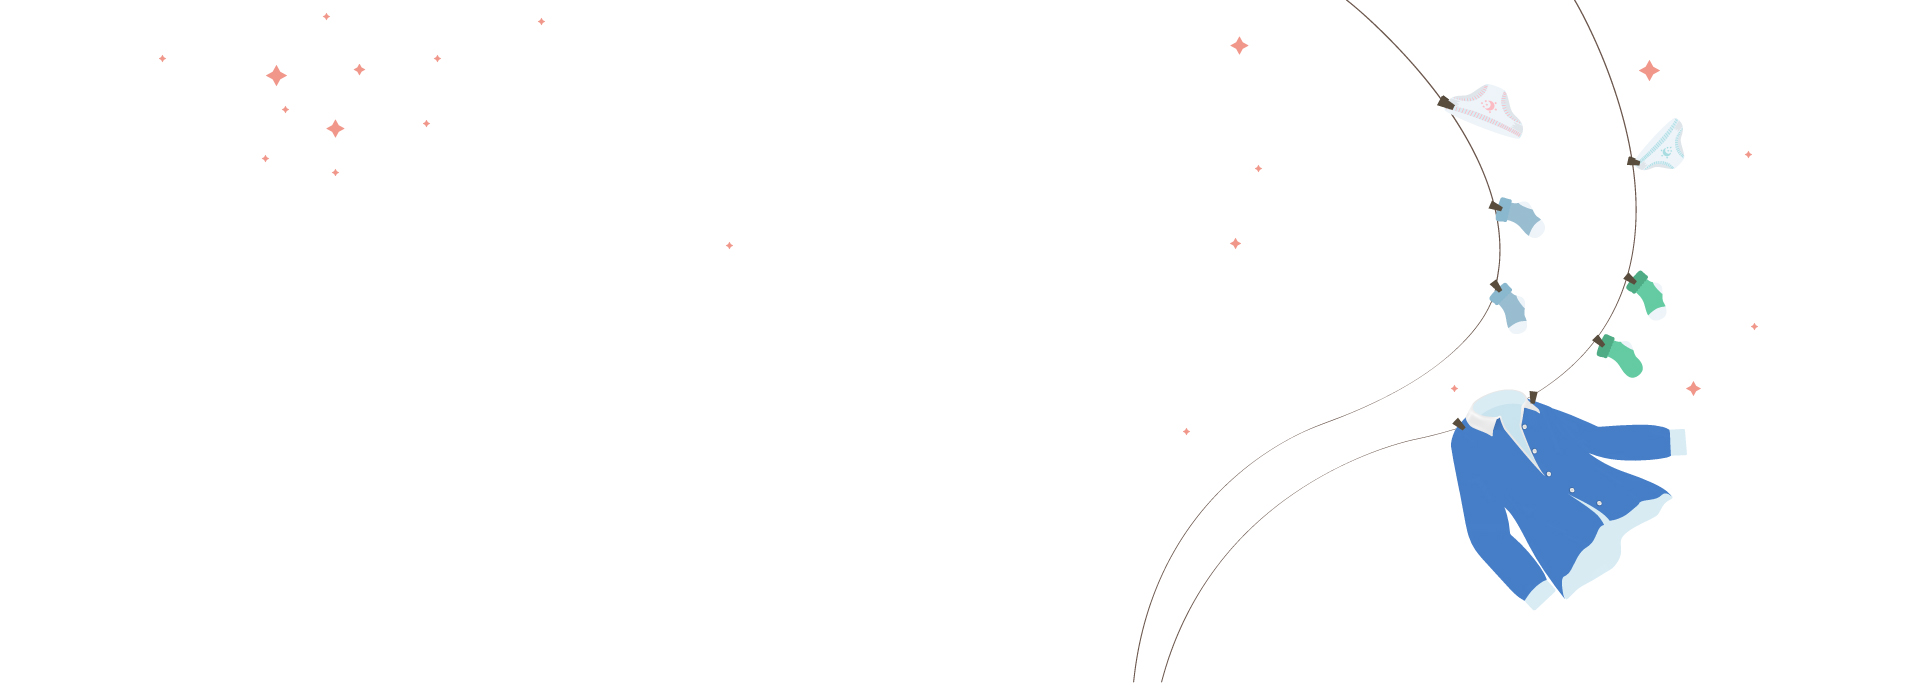
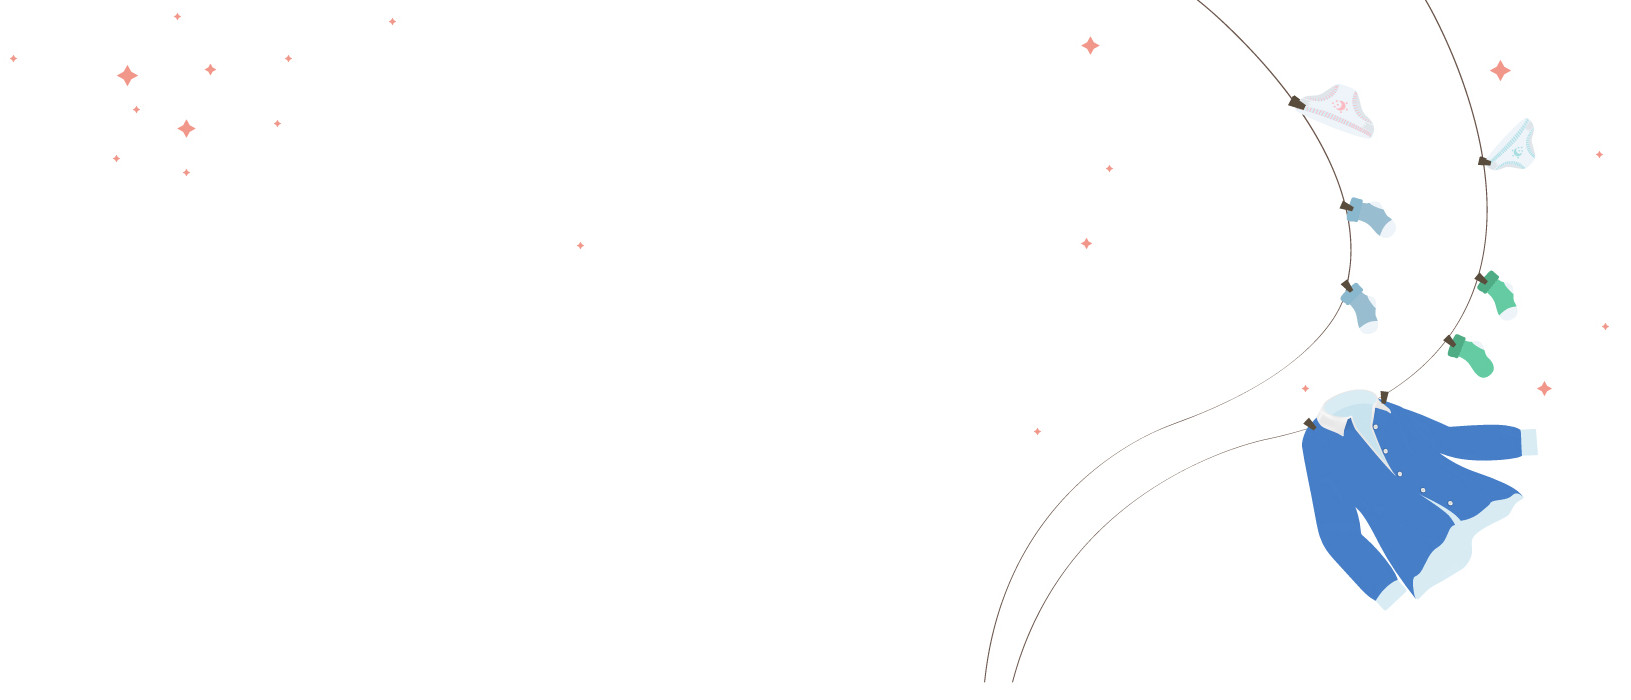
replace images

diff --git a/public/css/frontend.css b/public/css/frontend.css
@@ -6273,9 +6273,9 @@ a.btn:hover {
 
 .Homepage-header {
   padding: 5rem 0;
-  background-image: url("/img/frontend/home-bg.jpg");
   background-size: contain;
   background-repeat: no-repeat;
+  background-position: right top;
   margin-top: 2px;
 }
 
@@ -6283,6 +6283,7 @@ a.btn:hover {
   .Homepage-header {
     padding-top: 10rem;
     padding-bottom: 15rem;
+    background-image: url("/img/frontend/home-bg.jpg");
   }
 }
 
@@ -6340,22 +6341,33 @@ a.btn:hover {
   .Homepage-weNeedYou {
     text-align: left;
     background-image: url("/img/frontend/orga-bg.jpg");
-    background-size: cover;
+    background-size: contain;
+    background-repeat: no-repeat;
     background-position: center;
     margin-top: -10rem;
     padding: 20rem 0;
+    margin-bottom: -5rem;
   }
 }
 
 .Homepage-weNeedYou-content {
   max-width: 60rem;
   margin: 0rem auto;
-  padding: 1rem;
+}
+
+@media (min-width: 769px) {
+  .Homepage-weNeedYou-content {
+    padding-left: 10rem;
+    padding-bottom: 15rem;
+  }
 }
 
 .Inscriptions-Header {
-  padding: 15vh 0;
+  padding: 25vh 0;
   background-image: url("/img/frontend/inscriptions-bg.jpg");
+  background-position: bottom center;
+  background-size: cover;
+  background-repeat: no-repeat;
 }
 
 .Inscriptions-content {

diff --git a/resources/sass/frontend/pages/homepage.scss b/resources/sass/frontend/pages/homepage.scss
@@ -1,13 +1,14 @@
 .Homepage-header {
     padding: 5rem 0;
-    background-image: url('/img/frontend/home-bg.jpg');
     background-size: contain;
     background-repeat: no-repeat;
+    background-position: right top;
     margin-top: 2px;
 
     @media (min-width: $tablet) {
         padding-top: 10rem;
         padding-bottom: 15rem;
+        background-image: url('/img/frontend/home-bg.jpg');
     }
 }
 
@@ -59,15 +60,21 @@
     @media (min-width: $tablet) {
         text-align: left;
         background-image: url('/img/frontend/orga-bg.jpg');
-        background-size: cover;
+        background-size: contain;
+        background-repeat: no-repeat;
         background-position: center;
         margin-top: -10rem;
         padding: 20rem 0;
+        margin-bottom: -5rem;
     }
 }
 
 .Homepage-weNeedYou-content {
     max-width: 60rem;
     margin: 0rem auto;
-    padding: 1rem;
+
+    @media (min-width: $tablet) {
+        padding-left: 10rem;
+        padding-bottom: 15rem;
+    }
 }

diff --git a/resources/sass/frontend/pages/inscriptions.scss b/resources/sass/frontend/pages/inscriptions.scss
@@ -1,6 +1,9 @@
 .Inscriptions-Header {
-    padding: 15vh 0;
+    padding: 25vh 0;
     background-image: url('/img/frontend/inscriptions-bg.jpg');
+    background-position: bottom center;
+    background-size: cover;
+    background-repeat: no-repeat;
 }
 
 .Inscriptions-content {
